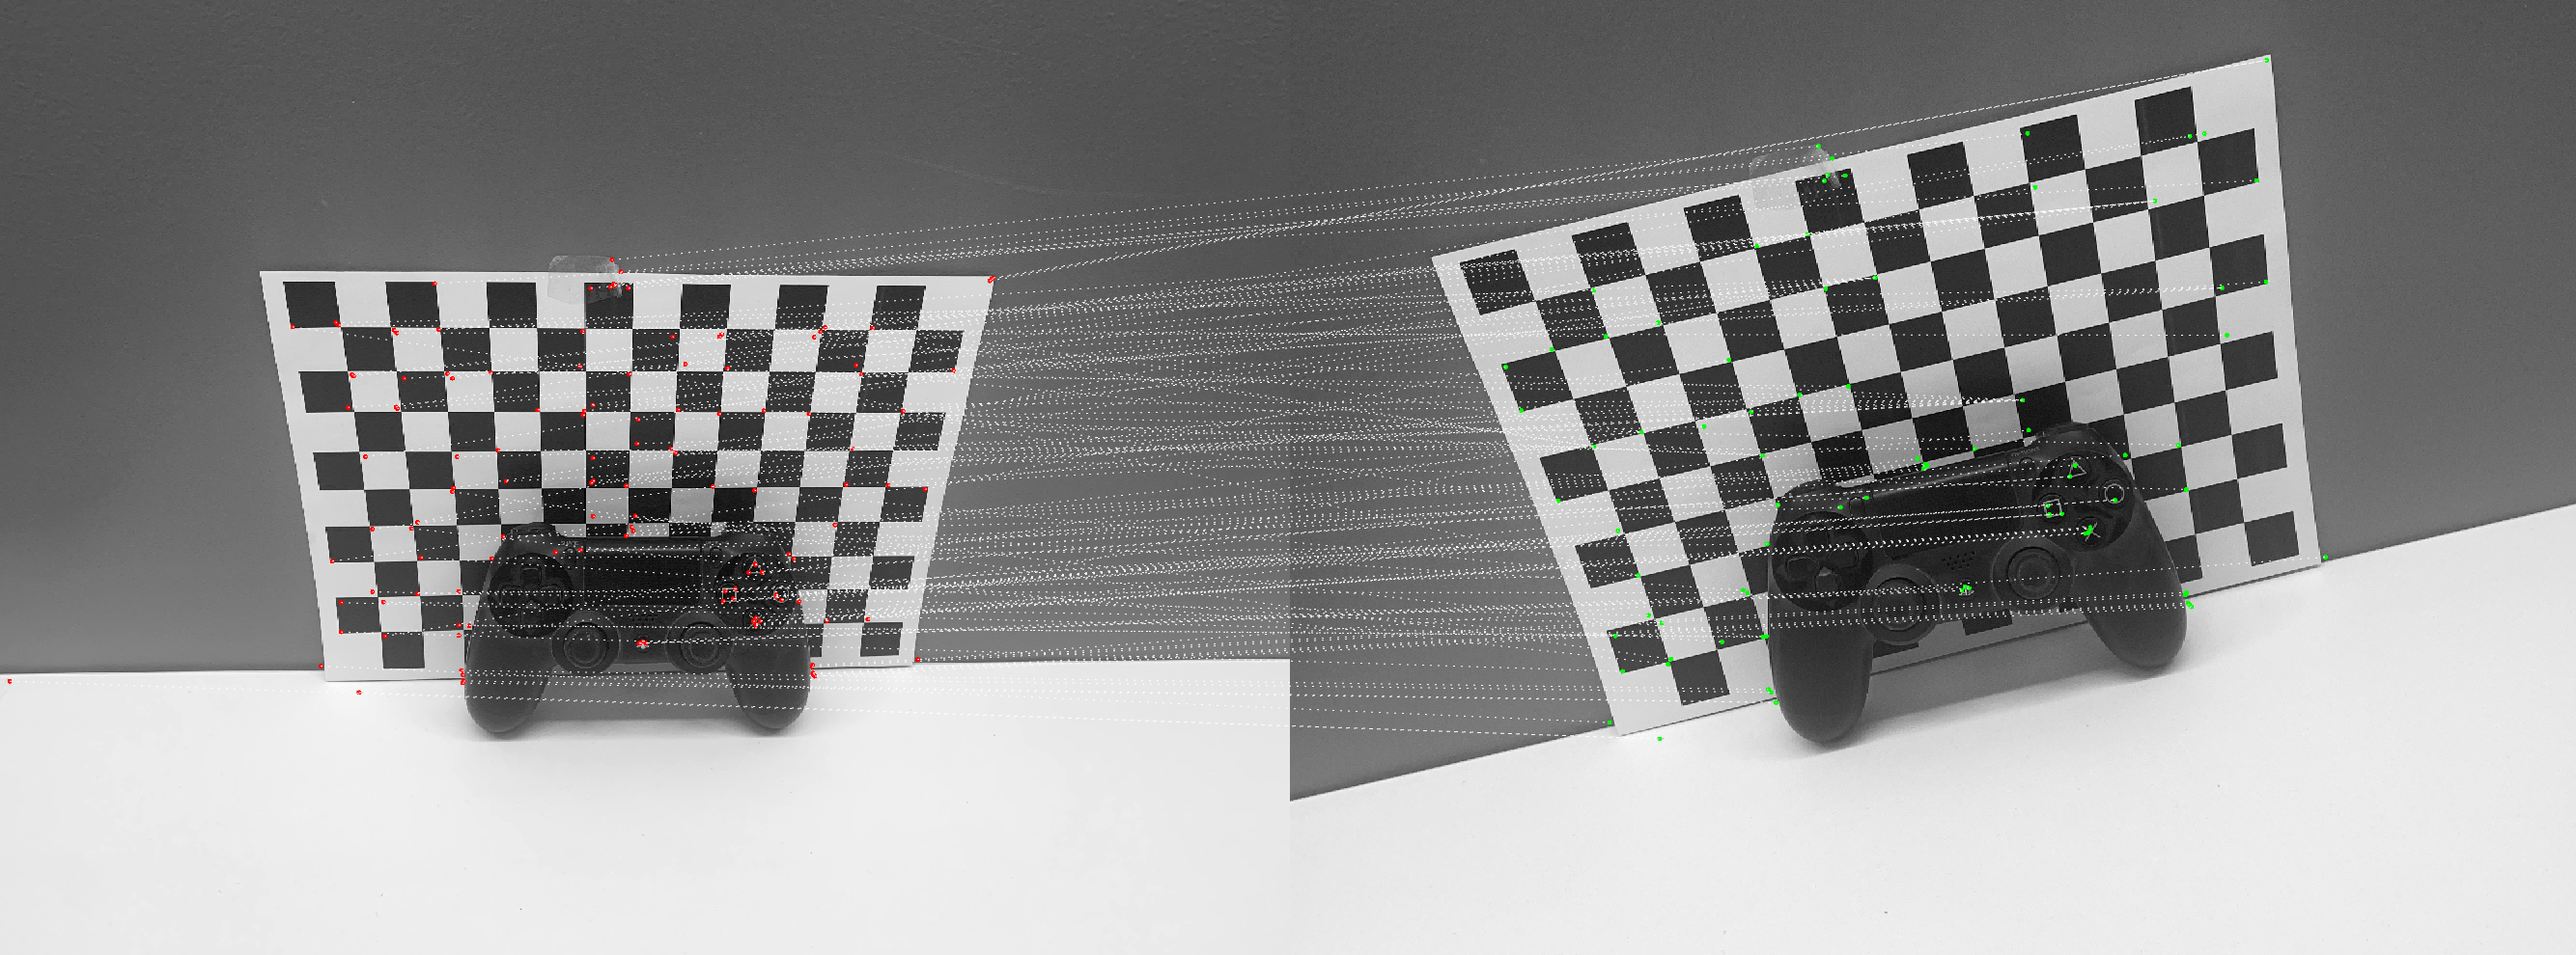
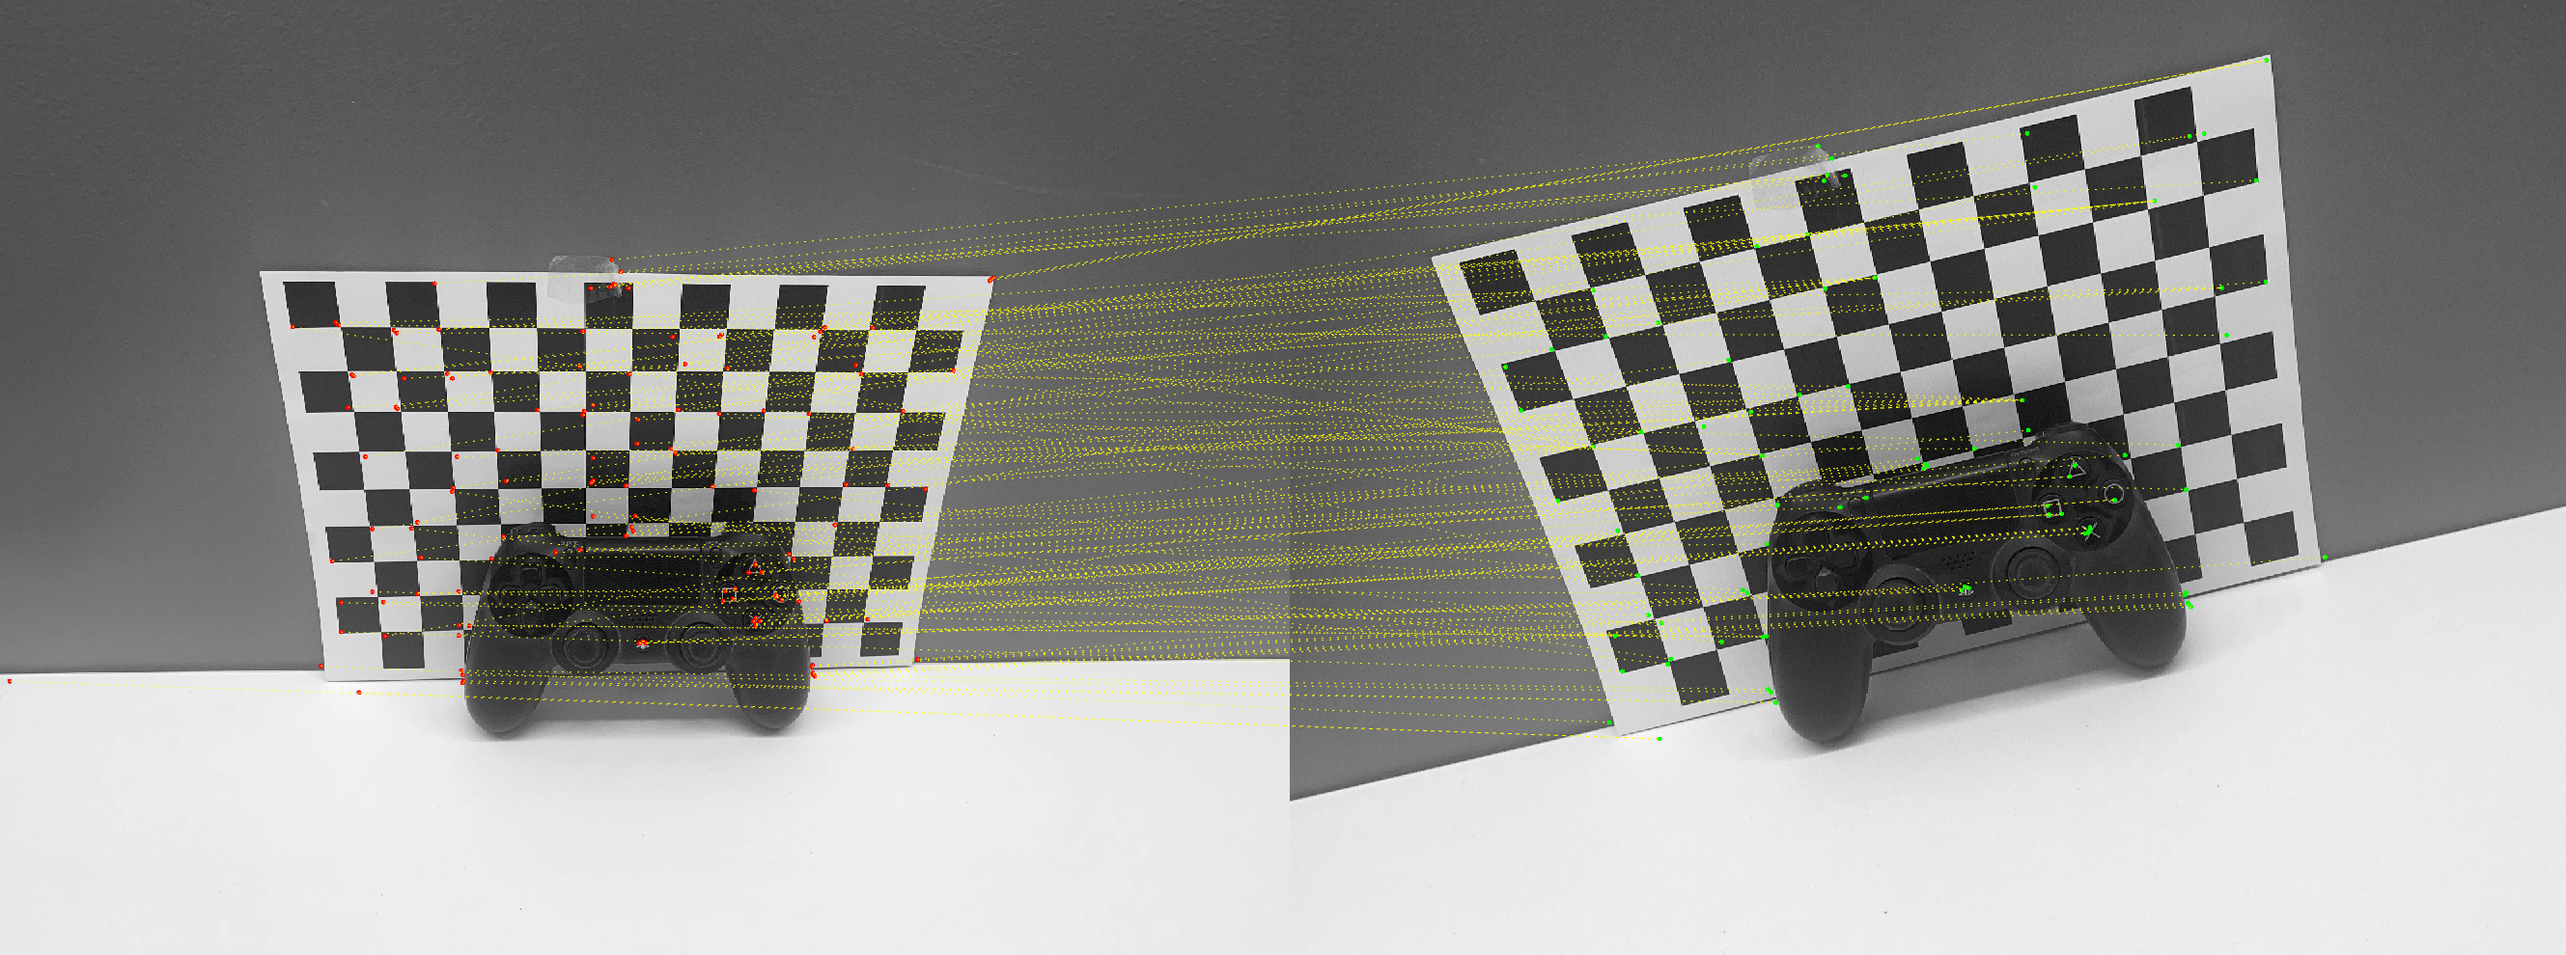
updated figures

diff --git a/CV Coursework/Correspondance.m b/CV Coursework/Correspondance.m
@@ -2,9 +2,6 @@ clc;
 clear;
 close all;
 function find_correspondence(fd_images, hg_images)
-    % FIND_CORRESPONDENCE Matches features between FD and HG image sets
-    % fd_images: cell array of file paths to FD images
-    % hg_images: cell array of file paths to HG images
     
     % Ensure the sets have the same number of images
     numImages = min(length(fd_images), length(hg_images));
@@ -41,7 +38,7 @@ function find_correspondence(fd_images, hg_images)
 
         % Display matches without lines
         figure;
-        showMatchedFeatures(imgFD, imgHG, matchedPointsFD, matchedPointsHG, 'montage', 'PlotOptions', {'r.','g.','w:'});
+        showMatchedFeatures(imgFD, imgHG, matchedPointsFD, matchedPointsHG, 'montage', 'PlotOptions', {'r.','g.','y:'});
         title(['Matched Features between FD and HG images - Pair ', num2str(i)]);
     end
 end

diff --git a/CV Coursework/Callibration.m b/CV Coursework/Callibration.m
@@ -9,7 +9,7 @@ clear; close all; clc;
 %% 1. Specify Calibration Images
 % List your calibration image file names here.
 % Ensure these images show a calibration grid (e.g., checkerboard) taken from different views.
-imageFileNames = { 'Photos/Grid/FD/1.jpg', 'Photos/Grid/FD/2.jpg', 'Photos/Grid/FD/3.jpg', 'Photos/Grid/FD/4.jpg', 'Photos/Grid/FD/5.jpg', 'Photos/Grid/FD/6.jpg' };
+imageFileNames = { 'Photos/No_Object/FD/1.jpg', 'Photos/No_Object/FD/2.jpg', 'Photos/No_Object/FD/3.jpg', 'Photos/No_Object/FD/4.jpg', 'Photos/No_Object/FD/5.jpg', 'Photos/No_Object/FD/6.jpg' };
 
 %% 2. Detect Checkerboard Points
 % detectCheckerboardPoints automatically finds the corners in the grid pattern.

diff --git a/CV Coursework/Stereo.m b/CV Coursework/Stereo.m
@@ -1,6 +1,6 @@
 % Load stereo images (Modify file names accordingly)
-leftImg = imread('Photos/Grid/HG/1.jpg');  
-rightImg = imread('Photos/Grid/FD/1.jpg'); 
+leftImg = imread('Photos/Grid/FD/1.jpg');  
+rightImg = imread('Photos/Grid/FD/2.jpg'); 
 
 % Convert to grayscale (if necessary)
 if size(leftImg, 3) == 3
